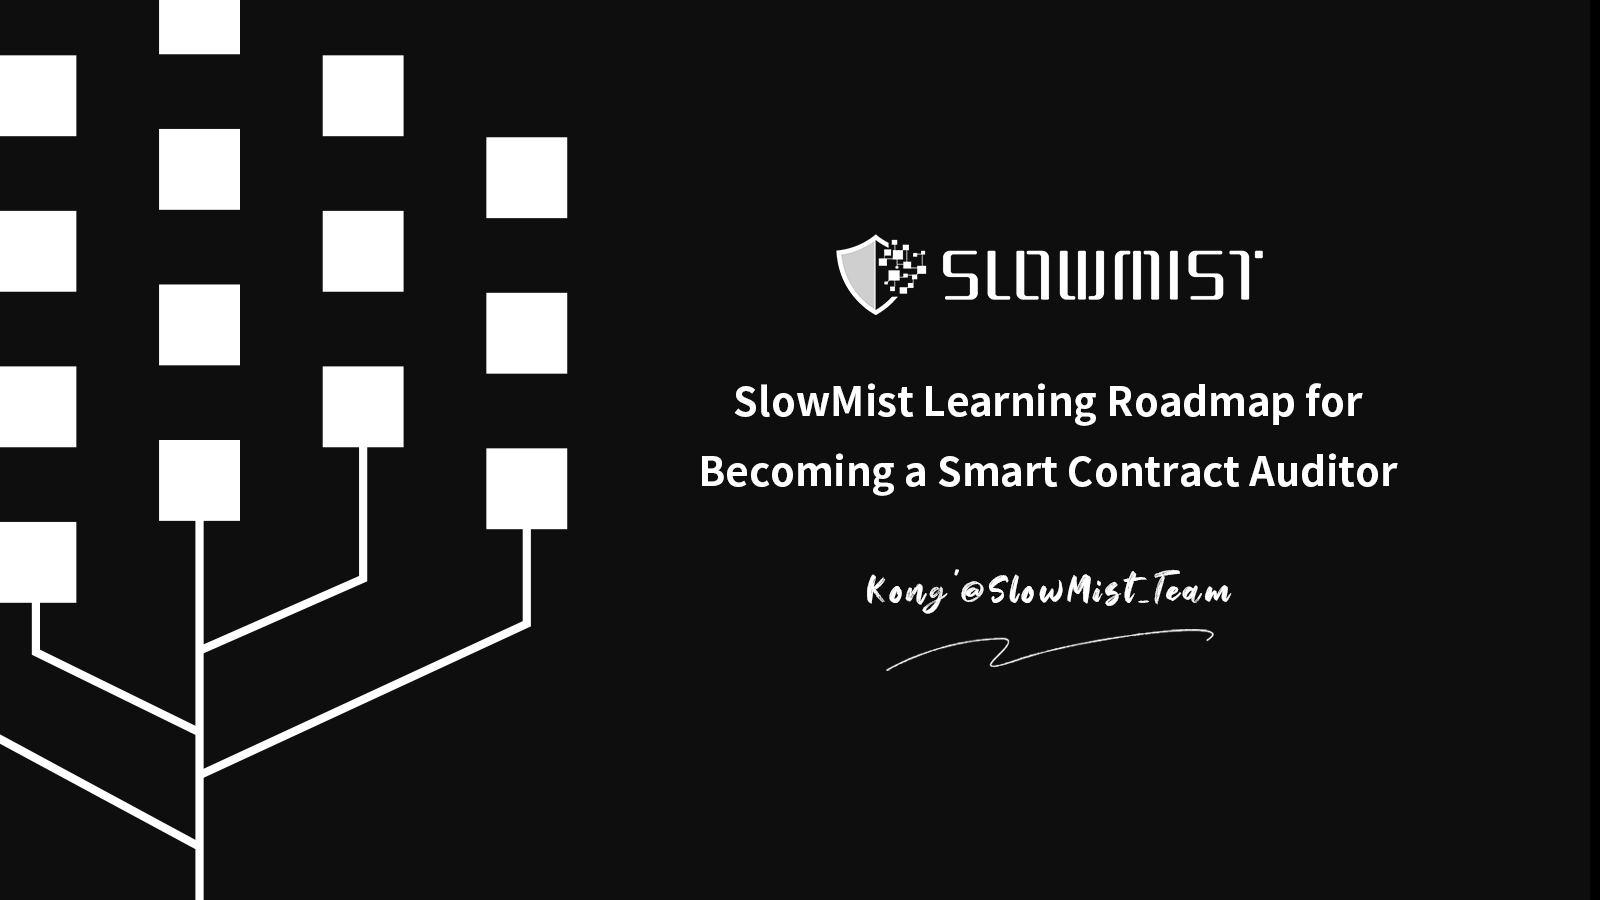
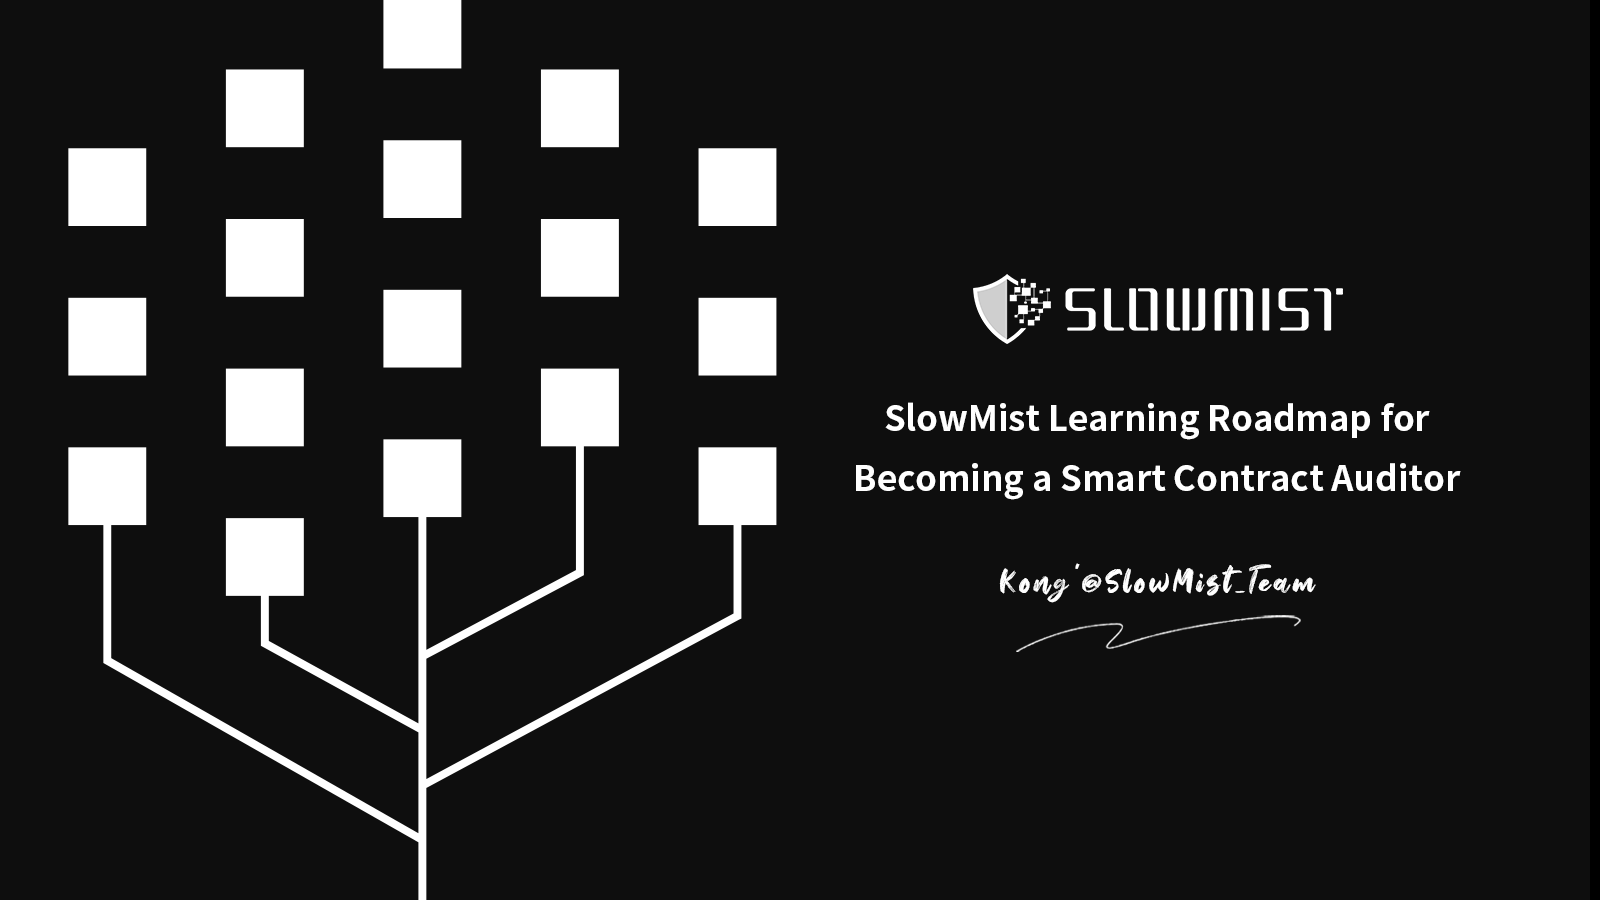
Add acknowledgments

diff --git a/README.md b/README.md
@@ -462,3 +462,5 @@ Special thanks to friends who provided valuable feedback:
 - Flush
 - Blue
 - Lizi
+
+Thanks to Jian for the English translation and to Hik3 for designing the cover image.
